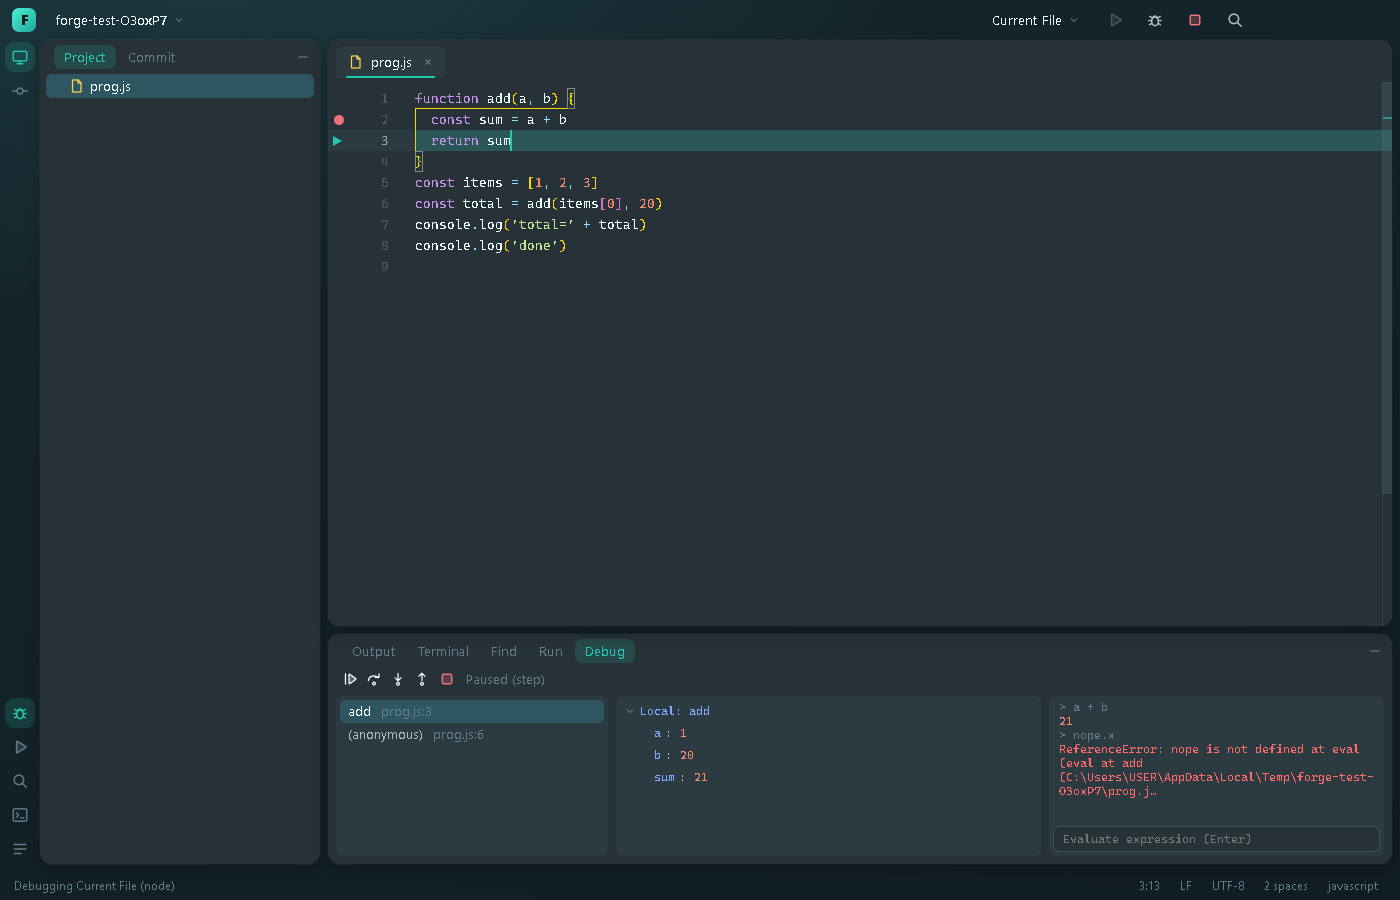
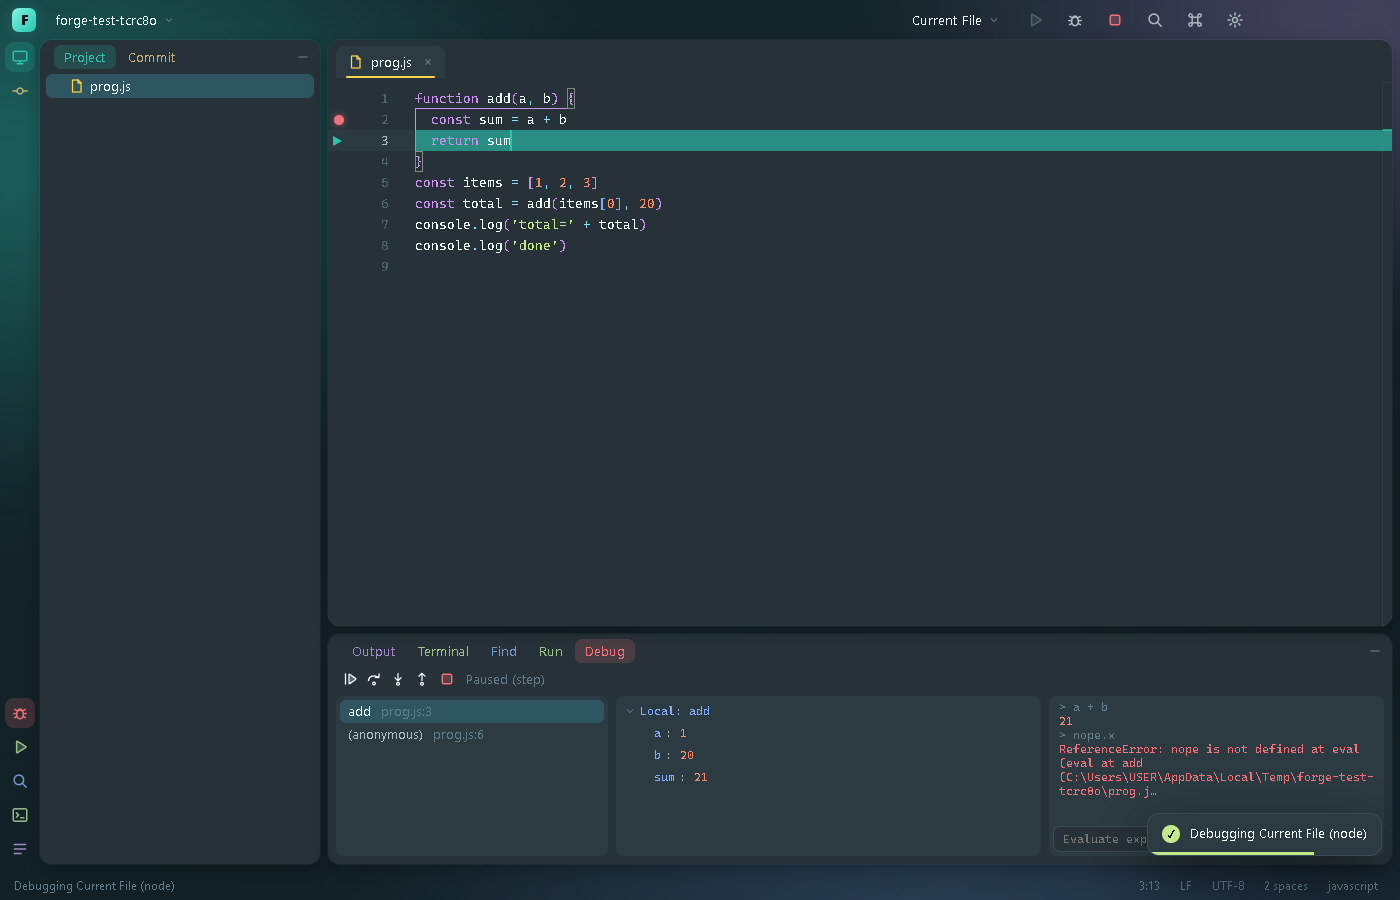
README rewrite for the full feature set, fresh screenshots
Claude-Session: https://claude.ai/code/session_01SmYU1rTD5yXU4A8pFetrMA

diff --git a/README.md b/README.md
@@ -1,37 +1,83 @@
 # Forge
 
 A JetBrains-style IDE built with Electron, TypeScript and Monaco. It is a learning/portfolio project: the goal is a
-fast, good-looking editor with real language intelligence, git, a terminal and a debugger, built phase by phase with
-an end-to-end test suite that drives the real UI.
+fast, good-looking editor with real language intelligence, git, a terminal and a debugger, built in verified steps
+with an end-to-end test suite that drives the real UI.
 
 ![Debugging a Node program in Forge](docs/debugger.png)
 
+## Highlights
+
+- **Colorful, animated, and yours to change** — 17 themes (dark, light and neon), a rainbow accent, glass panels, an
+  animated aurora background, and about 50 settings that apply live. See [Make it yours](#make-it-yours).
+- **Real language intelligence** — completion, hover, go-to-definition, diagnostics, rename, find usages, formatting
+  and quick fixes for TypeScript/JavaScript, Python, C/C++ and [Mort](https://github.com/0xmortuex/Mort), through
+  language servers.
+- **Git without leaving the editor** — commit window with per-file selection, editable side-by-side diffs, blame,
+  branches, push/pull/stash/revert.
+- **Run and debug** — run configurations, and a debugger for Node and Python with breakpoints, stepping, call
+  stack, variables and expression evaluation.
+- **Extensible** — a small, documented extension API (off by default), plus drop-in theme files.
+
 ## Features
 
-- **Look and feel** — floating "island" panels, a Material Oceanic palette, tool-window stripes, Search Everywhere
-  (double-tap <kbd>Shift</kbd>).
-- **Editor** — Monaco with tabs, a project tree (create / rename / delete via the context menu, delete goes to the
-  Recycle Bin), and project-wide text search.
-- **Language intelligence** — an LSP client: completion, hover, signature help, go-to-definition and live diagnostics.
-  TypeScript/JavaScript (`typescript-language-server`) and Python (`pyright`) are bundled; C/C++ uses `clangd` if it is
-  on your `PATH`.
-- **Terminal** — a real PowerShell/shell session (node-pty + xterm.js).
-- **Git** — branch widget, a Commit window with per-file checkboxes, side-by-side diffs, blame in the status bar and
-  status colors in the tree. It drives the `git` CLI.
-- **Run & debug** — run configurations in `.forge/run.json` (Node, Python, shell commands, or the current file), and a
-  debugger for Node (V8 inspector) and Python (debugpy, over the Debug Adapter Protocol) with gutter breakpoints,
-  stepping, call stack, variables and expression evaluation.
+| | |
+| --- | --- |
+| **Editor** | Monaco, tabs, project tree (create / rename / delete to the Recycle Bin), Search Everywhere (double-<kbd>Shift</kbd>), project-wide search, Zen mode, full screen, session restore with recent projects. |
+| **Languages** | TypeScript/JavaScript (`typescript-language-server`) and Python (`pyright`) are bundled. C/C++ uses `clangd` if it is on your `PATH`. Mort uses its own `mortc lsp`. Find usages, rename, reformat, quick fixes, format on save. |
+| **Terminal** | Real shells (node-pty + xterm.js), as many as you like, in tabs. |
+| **Git** | Branch widget with ahead/behind, Commit window, editable diffs, blame in the status bar, colored tree, push (publishes new branches), fast-forward pull, stash (with untracked files), revert. Uses the `git` CLI. |
+| **Run & debug** | `.forge/run.json` configurations (Node, Python, shell commands, or the current file), a Run tab with a real terminal, Node debugger (V8 inspector) and Python debugger (`debugpy`, over DAP). |
+| **Customization** | Themes, accent, fonts, layout density, panel shape, motion, editor and terminal options, custom shortcuts, command palette. |
 
 ![Git diff and the Commit window](docs/git-diff.png)
+
+## Make it yours
+
+Open **Settings** with <kbd>Ctrl</kbd>+<kbd>,</kbd>, or press <kbd>Ctrl</kbd>+<kbd>Shift</kbd>+<kbd>P</kbd> for the
+**Command Palette**, which runs every action and previews themes live as you move through the list.
+
+![Settings with the theme gallery](docs/settings.png)
+
+- **Themes** — Material Oceanic, Darcula, Dracula, Nord, Tokyo Night, Monokai Pro, Solarized (dark and light),
+  Gruvbox, Catppuccin, Rosé Pine, One Dark, GitHub (dark and light), Synthwave '84, Forge Light, High Contrast. One
+  small palette drives the interface, the editor's syntax colors and the terminal. Add your own as a JSON file.
+- **Accent** — twelve swatches, any custom color, or a slowly cycling rainbow.
+- **Motion** — panels slide, tabs pop in, folders fade open, notifications slide in, buttons ripple; choose *Full*,
+  *Reduced* or *Off*, and a speed.
+- **Layout** — corner radius, panel spacing, density, interface font and size, zoom, status bar and tool-window
+  buttons on or off.
+- **Editor / Terminal** — fonts, ligatures, minimap, rulers, word wrap, whitespace, line numbers, cursor style,
+  rainbow brackets, sticky scroll, auto save, format on save, scrollback and more.
+- **Keymap** — set your own shortcut for any command (it is added to the default).
+- **Extensions** — see [docs/EXTENSIONS.md](docs/EXTENSIONS.md).
+
+<table>
+  <tr>
+    <td><img src="docs/theme-synthwave.png" alt="Synthwave '84"></td>
+    <td><img src="docs/theme-light.png" alt="Forge Light"></td>
+  </tr>
+  <tr>
+    <td><img src="docs/theme-dracula.png" alt="Dracula"></td>
+    <td><img src="docs/palette.png" alt="Command palette previewing a theme"></td>
+  </tr>
+</table>
+
+Settings live in `settings.json` in Forge's user-data folder (**Settings → Open settings.json**). If you edit it by
+hand and make a mistake, Forge tells you, starts with defaults, and keeps your file as `settings.json.broken`
+instead of overwriting it.
 
 ## Keyboard shortcuts
 
 | Action | Keys |
 | --- | --- |
-| Open folder | <kbd>Ctrl</kbd>+<kbd>O</kbd> |
-| Search Everywhere | <kbd>Shift</kbd> <kbd>Shift</kbd> |
-| Find in project | <kbd>Ctrl</kbd>+<kbd>Shift</kbd>+<kbd>F</kbd> |
+| Command Palette / Settings | <kbd>Ctrl</kbd>+<kbd>Shift</kbd>+<kbd>P</kbd> or <kbd>F1</kbd> / <kbd>Ctrl</kbd>+<kbd>,</kbd> |
+| Open folder / Save / Close tab | <kbd>Ctrl</kbd>+<kbd>O</kbd> / <kbd>Ctrl</kbd>+<kbd>S</kbd> / <kbd>Ctrl</kbd>+<kbd>W</kbd> |
+| Search Everywhere / Find in project | <kbd>Shift</kbd> <kbd>Shift</kbd> / <kbd>Ctrl</kbd>+<kbd>Shift</kbd>+<kbd>F</kbd> |
 | Project / Commit / Output / Terminal | <kbd>Alt</kbd>+<kbd>1</kbd> / <kbd>0</kbd> / <kbd>2</kbd> / <kbd>3</kbd> |
+| New terminal | <kbd>Ctrl</kbd>+<kbd>Shift</kbd>+<kbd>`</kbd> |
+| Zen mode / Full screen | <kbd>Ctrl</kbd>+<kbd>Alt</kbd>+<kbd>Z</kbd> / <kbd>F11</kbd> |
+| Rename / Find usages / Reformat / Quick fix | <kbd>F2</kbd> / <kbd>Alt</kbd>+<kbd>F7</kbd> / <kbd>Ctrl</kbd>+<kbd>Alt</kbd>+<kbd>L</kbd> / <kbd>Ctrl</kbd>+<kbd>.</kbd> |
 | Run / Debug / Stop | <kbd>Shift</kbd>+<kbd>F10</kbd> / <kbd>Shift</kbd>+<kbd>F9</kbd> / <kbd>Ctrl</kbd>+<kbd>F2</kbd> |
 | Resume / Step over / Step into / Step out | <kbd>F9</kbd> / <kbd>F8</kbd> / <kbd>F7</kbd> / <kbd>Shift</kbd>+<kbd>F8</kbd> |
 | Toggle breakpoint | <kbd>Ctrl</kbd>+<kbd>F8</kbd> or click the gutter |
@@ -47,7 +93,7 @@ pnpm build      # production build into out/
 pnpm test       # build, then run the end-to-end scenarios
 ```
 
-A run configuration file looks like this (Forge creates a template via the run widget → *Edit Configurations…*):
+A run configuration file looks like this (the run widget → *Edit Configurations…* creates a template):
 
 ```json
 {
@@ -59,22 +105,29 @@ A run configuration file looks like this (Forge creates a template via the run w
 }
 ```
 
+Python debugging needs `debugpy` (`uv pip install debugpy`). Mort support needs `mortc` on your `PATH`, or the
+`MORTC` environment variable pointing at your `mortc.py`.
+
 ## How it is built
 
-- `src/main` — Electron main process: filesystem, node-pty terminals, language-server processes, git, and the debug
-  backends (a Node adapter over the V8 inspector protocol, and a DAP client for Python's debugpy) behind one
-  DAP-shaped IPC interface.
+- `src/main` — Electron main process: filesystem, node-pty terminals, language-server processes, git, the debug
+  backends (a Node adapter over the V8 inspector, and a DAP client for Python's debugpy), user settings and
+  extension loading.
 - `src/preload` — the small, typed bridge exposed to the renderer.
-- `src/renderer` — the UI (vanilla TypeScript, no framework).
-- `tests/` — end-to-end scenarios. Each boots the built app against a temporary project, sends real key and mouse
-  events, and asserts on the DOM and the filesystem (`pnpm test`).
+- `src/renderer` — the UI (vanilla TypeScript, no framework). Every color is a CSS variable derived from the active
+  theme; every setting is declared once in `settings.ts`, from which the Settings window is generated.
+- `tests/` — end-to-end scenarios. Each boots the built app against a temporary project and a throwaway user-data
+  folder, sends real key and mouse events, and asserts on the DOM and the filesystem (`pnpm test`).
+- `docs/` — [extension guide](docs/EXTENSIONS.md); `examples/` — a working example extension.
 
 ## Known limitations
 
-- Debugging covers Node and Python only; Python debugging needs `debugpy` installed (`uv pip install debugpy`).
-- Diffs are read-only; there is no push/pull/stash/revert yet.
-- No rename-symbol, find-usages, formatting or code actions yet.
-- A single terminal; no extension system.
+- Windows is the only platform it has actually been run on. CI type-checks and builds on Windows, Linux and macOS,
+  and the code has macOS/Linux branches, but they are untested.
+- There is no packaged installer yet; run it from source.
+- Debugging covers Node and Python only (no conditional breakpoints or logpoints yet).
+- Git has no history viewer, merge-conflict UI or branch deletion; pull is fast-forward only.
+- One editor group (no split editors). The extension API is deliberately small (version 1).
 
 ## License
 
